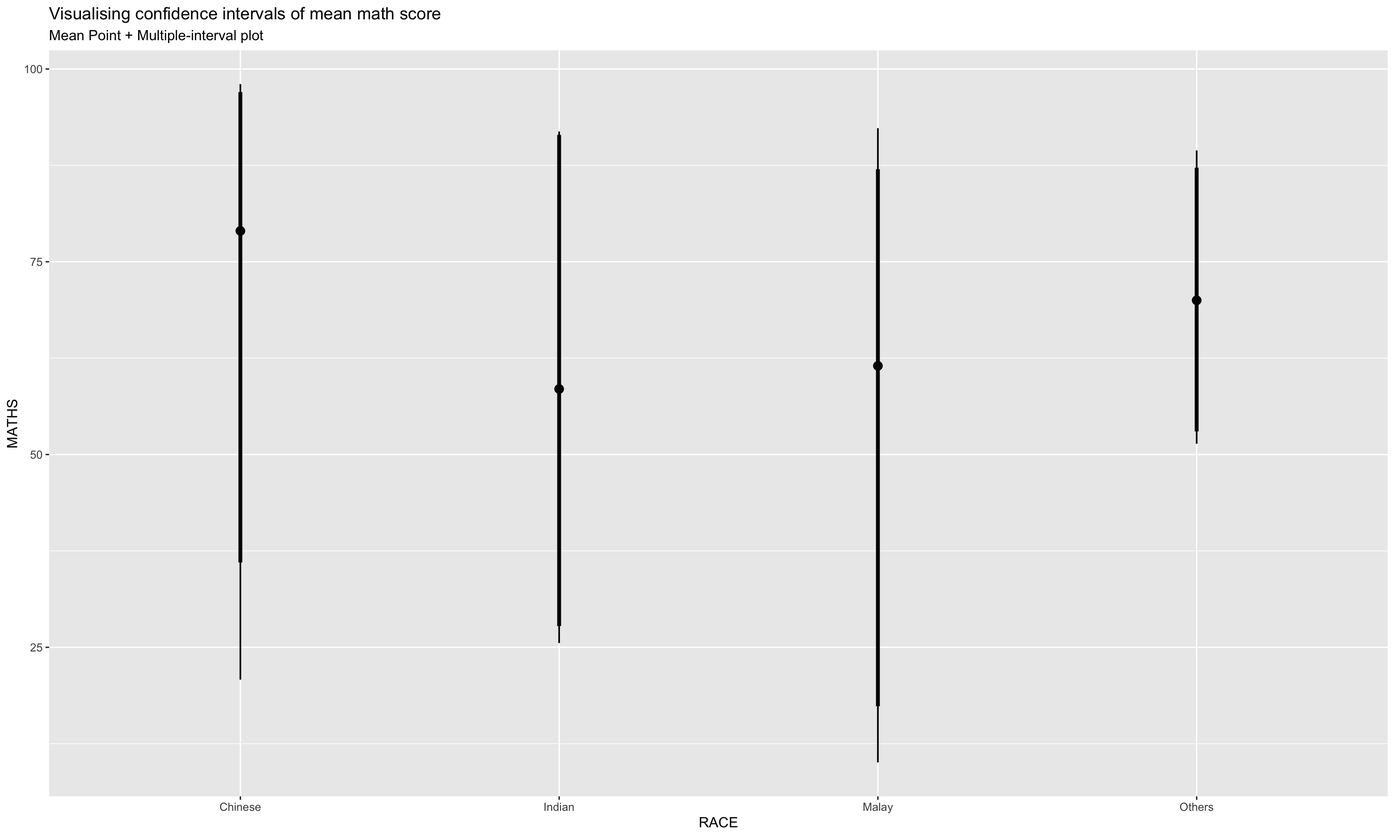
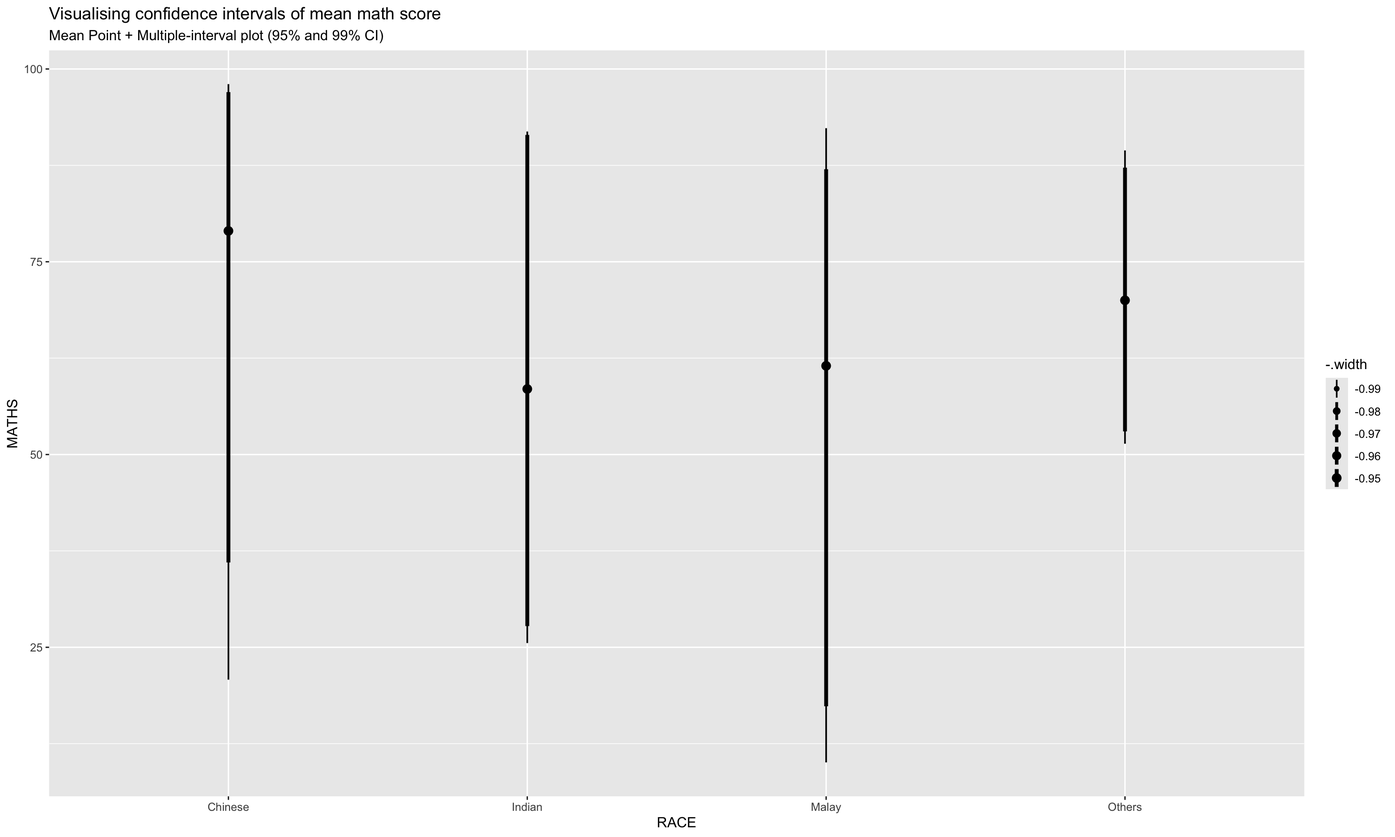
Fix Hands_on_4_3

diff --git a/_site/Hands_on_Ex04_3.html b/_site/Hands_on_Ex04_3.html
@@ -219,11 +219,11 @@ pre > code.sourceCode > span > a:first-child::before { text-decoration: underlin
   <li><a href="#plotting-confidence-interval-of-point-estimates" id="toc-plotting-confidence-interval-of-point-estimates" class="nav-link" data-scroll-target="#plotting-confidence-interval-of-point-estimates">3.2 Plotting confidence interval of point estimates</a></li>
   <li><a href="#visualizing-the-uncertainty-of-point-estimates-with-interactive-error-bars" id="toc-visualizing-the-uncertainty-of-point-estimates-with-interactive-error-bars" class="nav-link" data-scroll-target="#visualizing-the-uncertainty-of-point-estimates-with-interactive-error-bars">3.3 Visualizing the uncertainty of point estimates with interactive error bars</a></li>
   </ul></li>
-  <li><a href="#visualising-uncertainty-ggdist-package" id="toc-visualising-uncertainty-ggdist-package" class="nav-link" data-scroll-target="#visualising-uncertainty-ggdist-package"><strong>4 Visualising Uncertainty:</strong> ggdist** package**</a>
+  <li><a href="#visualising-uncertainty-ggdist-package" id="toc-visualising-uncertainty-ggdist-package" class="nav-link" data-scroll-target="#visualising-uncertainty-ggdist-package"><strong>4. Visualising Uncertainty: ggdist package </strong></a>
   <ul class="collapse">
-  <li><a href="#visualizing-the-uncertainty-of-point-estimates-ggdist-methods" id="toc-visualizing-the-uncertainty-of-point-estimates-ggdist-methods" class="nav-link" data-scroll-target="#visualizing-the-uncertainty-of-point-estimates-ggdist-methods">4.1 Visualizing the uncertainty of point estimates: <strong>ggdist</strong> methods</a></li>
+  <li><a href="#visualizing-the-uncertainty-of-point-estimates-ggdist-methods" id="toc-visualizing-the-uncertainty-of-point-estimates-ggdist-methods" class="nav-link" data-scroll-target="#visualizing-the-uncertainty-of-point-estimates-ggdist-methods">4.1 Visualizing the uncertainty of point estimates: ggdist methods</a></li>
   <li><a href="#visualizing-the-uncertainty-of-point-estimates-ggdist-methods-1" id="toc-visualizing-the-uncertainty-of-point-estimates-ggdist-methods-1" class="nav-link" data-scroll-target="#visualizing-the-uncertainty-of-point-estimates-ggdist-methods-1">4.2 Visualizing the uncertainty of point estimates: <strong>ggdist</strong> methods</a></li>
-  <li><a href="#visualizing-the-uncertainty-of-point-estimates-ggdist-methods-2" id="toc-visualizing-the-uncertainty-of-point-estimates-ggdist-methods-2" class="nav-link" data-scroll-target="#visualizing-the-uncertainty-of-point-estimates-ggdist-methods-2">4.3 Visualizing the uncertainty of point estimates: <strong>ggdist</strong> methods</a></li>
+  <li><a href="#visualizing-the-uncertainty-of-point-estimates-ggdist-methods-2" id="toc-visualizing-the-uncertainty-of-point-estimates-ggdist-methods-2" class="nav-link" data-scroll-target="#visualizing-the-uncertainty-of-point-estimates-ggdist-methods-2">4.3 Visualizing the uncertainty of point estimates: ggdist methods</a></li>
   </ul></li>
   <li><a href="#visualising-uncertainty-with-hypothetical-outcome-plots-hops" id="toc-visualising-uncertainty-with-hypothetical-outcome-plots-hops" class="nav-link" data-scroll-target="#visualising-uncertainty-with-hypothetical-outcome-plots-hops"><strong>5. Visualising Uncertainty with Hypothetical Outcome Plots (HOPs)</strong></a>
   <ul class="collapse">
@@ -294,10 +294,9 @@ pre > code.sourceCode > span > a:first-child::before { text-decoration: underlin
 <div class="cell">
 <details class="code-fold">
 <summary>Show code block</summary>
-<div class="code-copy-outer-scaffold"><div class="sourceCode cell-code" id="cb1"><pre class="sourceCode r code-with-copy"><code class="sourceCode r"><span id="cb1-1"><a href="#cb1-1" aria-hidden="true" tabindex="-1"></a>devtools<span class="sc">::</span><span class="fu">install_github</span>(<span class="st">"wilkelab/ungeviz"</span>)</span>
-<span id="cb1-2"><a href="#cb1-2" aria-hidden="true" tabindex="-1"></a>pacman<span class="sc">::</span><span class="fu">p_load</span>(plotly, crosstalk, DT,</span>
-<span id="cb1-3"><a href="#cb1-3" aria-hidden="true" tabindex="-1"></a>               ggdist, ggridges, colorspace,</span>
-<span id="cb1-4"><a href="#cb1-4" aria-hidden="true" tabindex="-1"></a>               gganimate, tidyverse)</span></code></pre></div><button title="Copy to Clipboard" class="code-copy-button"><i class="bi"></i></button></div>
+<div class="code-copy-outer-scaffold"><div class="sourceCode cell-code" id="cb1"><pre class="sourceCode r code-with-copy"><code class="sourceCode r"><span id="cb1-1"><a href="#cb1-1" aria-hidden="true" tabindex="-1"></a>pacman<span class="sc">::</span><span class="fu">p_load</span>(plotly, crosstalk, DT,</span>
+<span id="cb1-2"><a href="#cb1-2" aria-hidden="true" tabindex="-1"></a>               ggdist, ggridges, colorspace,</span>
+<span id="cb1-3"><a href="#cb1-3" aria-hidden="true" tabindex="-1"></a>               gganimate, tidyverse)</span></code></pre></div><button title="Copy to Clipboard" class="code-copy-button"><i class="bi"></i></button></div>
 </details>
 </div>
 </section>
@@ -567,12 +566,12 @@ Note
 <div class="container-fluid crosstalk-bscols">
 <div class="row">
 <div class="col-xs-4">
-<div class="plotly html-widget html-fill-item" id="htmlwidget-cda1d65f6e9fd447b52b" style="width:100%;height:400px;"></div>
-<script type="application/json" data-for="htmlwidget-cda1d65f6e9fd447b52b">{"x":{"data":[{"x":[1,3,4,2],"y":[76.507772020725383,60.666666666666671,57.444444444444429,69.666666666666671],"text":"","key":["1","2","3","4"],"type":"scatter","mode":"lines","opacity":0.90000000000000002,"line":{"color":"transparent"},"error_y":{"array":[2.9214818033281915,18.16579402963913,5.2713960499886028,9.7819093228264933],"arrayminus":[2.9214818033281915,18.16579402963913,5.2713960499886028,9.7819093228265004],"type":"data","width":17.142857142857164,"symmetric":false,"color":"rgba(0,0,0,1)"},"set":"SharedData54eef3de","showlegend":false,"xaxis":"x","yaxis":"y","hoverinfo":"text","_isNestedKey":false,"frame":null},{"x":[1,3,4,2],"y":[76.507772020725383,60.666666666666671,57.444444444444429,69.666666666666671],"text":["Race: Chinese <br>N: 193 <br>Avg. Scores: 76.51 <br>99% CI:[ 73.59 , 79.43 ]","Race: Indian <br>N: 12 <br>Avg. Scores: 60.67 <br>99% CI:[ 42.5 , 78.83 ]","Race: Malay <br>N: 108 <br>Avg. Scores: 57.44 <br>99% CI:[ 52.17 , 62.72 ]","Race: Others <br>N: 9 <br>Avg. Scores: 69.67 <br>99% CI:[ 59.88 , 79.45 ]"],"key":["1","2","3","4"],"type":"scatter","mode":"markers","marker":{"autocolorscale":false,"color":"rgba(255,0,0,1)","opacity":1,"size":5.6692913385826778,"symbol":"circle","line":{"width":1.8897637795275593,"color":"rgba(255,0,0,1)"}},"hoveron":"points","set":"SharedData54eef3de","showlegend":false,"xaxis":"x","yaxis":"y","hoverinfo":"text","_isNestedKey":false,"frame":null}],"layout":{"margin":{"t":40.840182648401829,"r":7.3059360730593621,"b":47.923444344685095,"l":37.260273972602747},"paper_bgcolor":"rgba(255,255,255,1)","font":{"color":"rgba(0,0,0,1)","family":"","size":14.611872146118724},"title":{"text":"99% Confidence interval of average <br />maths scores by race","font":{"color":"rgba(0,0,0,1)","family":"","size":17.534246575342465},"x":0,"xref":"paper"},"xaxis":{"domain":[0,1],"automargin":true,"type":"linear","autorange":false,"range":[0.40000000000000002,4.5999999999999996],"tickmode":"array","ticktext":["Chinese","Others","Indian","Malay"],"tickvals":[1,2,3,4],"categoryorder":"array","categoryarray":["Chinese","Others","Indian","Malay"],"nticks":null,"ticks":"","tickcolor":null,"ticklen":3.6529680365296811,"tickwidth":0,"showticklabels":true,"tickfont":{"color":"rgba(77,77,77,1)","family":"","size":11.68949771689498},"tickangle":-45,"showline":false,"linecolor":null,"linewidth":0,"showgrid":true,"gridcolor":"rgba(235,235,235,1)","gridwidth":0.66417600664176002,"zeroline":false,"anchor":"y","title":{"text":"Race","font":{"color":"rgba(0,0,0,1)","family":"","size":14.611872146118724}},"hoverformat":".2f"},"yaxis":{"domain":[0,1],"automargin":true,"type":"linear","autorange":false,"range":[40.653487469404261,81.295961157116452],"tickmode":"array","ticktext":["50","60","70","80"],"tickvals":[50,60,70,80],"categoryorder":"array","categoryarray":["50","60","70","80"],"nticks":null,"ticks":"","tickcolor":null,"ticklen":3.6529680365296811,"tickwidth":0,"showticklabels":true,"tickfont":{"color":"rgba(77,77,77,1)","family":"","size":11.68949771689498},"tickangle":-0,"showline":false,"linecolor":null,"linewidth":0,"showgrid":true,"gridcolor":"rgba(235,235,235,1)","gridwidth":0.66417600664176002,"zeroline":false,"anchor":"x","title":{"text":"Average Scores","font":{"color":"rgba(0,0,0,1)","family":"","size":14.611872146118724}},"hoverformat":".2f"},"shapes":[],"showlegend":false,"legend":{"bgcolor":null,"bordercolor":null,"borderwidth":0,"font":{"color":"rgba(0,0,0,1)","family":"","size":11.68949771689498}},"hovermode":"closest","barmode":"relative","dragmode":"zoom"},"config":{"doubleClick":"reset","modeBarButtonsToAdd":["hoverclosest","hovercompare"],"showSendToCloud":false},"source":"A","attrs":{"ca7d206a415a":{"x":{},"ymin":{},"ymax":{},"type":"scatter"},"ca7d1fe88c56":{"x":{},"y":{},"text":{}}},"cur_data":"ca7d206a415a","visdat":{"ca7d206a415a":["function (y) ","x"],"ca7d1fe88c56":["function (y) ","x"]},"highlight":{"on":"plotly_click","persistent":false,"dynamic":false,"selectize":false,"opacityDim":0.20000000000000001,"selected":{"opacity":1},"debounce":0,"ctGroups":["SharedData54eef3de"]},"shinyEvents":["plotly_hover","plotly_click","plotly_selected","plotly_relayout","plotly_brushed","plotly_brushing","plotly_clickannotation","plotly_doubleclick","plotly_deselect","plotly_afterplot","plotly_sunburstclick"],"base_url":"https://plot.ly"},"evals":[],"jsHooks":[]}</script>
+<div class="plotly html-widget html-fill-item" id="htmlwidget-2e1fb21eb13682430ca4" style="width:100%;height:400px;"></div>
+<script type="application/json" data-for="htmlwidget-2e1fb21eb13682430ca4">{"x":{"data":[{"x":[1,3,4,2],"y":[76.507772020725383,60.666666666666671,57.444444444444429,69.666666666666671],"text":"","key":["1","2","3","4"],"type":"scatter","mode":"lines","opacity":0.90000000000000002,"line":{"color":"transparent"},"error_y":{"array":[2.9214818033281915,18.16579402963913,5.2713960499886028,9.7819093228264933],"arrayminus":[2.9214818033281915,18.16579402963913,5.2713960499886028,9.7819093228265004],"type":"data","width":17.142857142857164,"symmetric":false,"color":"rgba(0,0,0,1)"},"set":"SharedData34c610c2","showlegend":false,"xaxis":"x","yaxis":"y","hoverinfo":"text","_isNestedKey":false,"frame":null},{"x":[1,3,4,2],"y":[76.507772020725383,60.666666666666671,57.444444444444429,69.666666666666671],"text":["Race: Chinese <br>N: 193 <br>Avg. Scores: 76.51 <br>99% CI:[ 73.59 , 79.43 ]","Race: Indian <br>N: 12 <br>Avg. Scores: 60.67 <br>99% CI:[ 42.5 , 78.83 ]","Race: Malay <br>N: 108 <br>Avg. Scores: 57.44 <br>99% CI:[ 52.17 , 62.72 ]","Race: Others <br>N: 9 <br>Avg. Scores: 69.67 <br>99% CI:[ 59.88 , 79.45 ]"],"key":["1","2","3","4"],"type":"scatter","mode":"markers","marker":{"autocolorscale":false,"color":"rgba(255,0,0,1)","opacity":1,"size":5.6692913385826778,"symbol":"circle","line":{"width":1.8897637795275593,"color":"rgba(255,0,0,1)"}},"hoveron":"points","set":"SharedData34c610c2","showlegend":false,"xaxis":"x","yaxis":"y","hoverinfo":"text","_isNestedKey":false,"frame":null}],"layout":{"margin":{"t":40.840182648401829,"r":7.3059360730593621,"b":47.923444344685095,"l":37.260273972602747},"paper_bgcolor":"rgba(255,255,255,1)","font":{"color":"rgba(0,0,0,1)","family":"","size":14.611872146118724},"title":{"text":"99% Confidence interval of average <br />maths scores by race","font":{"color":"rgba(0,0,0,1)","family":"","size":17.534246575342465},"x":0,"xref":"paper"},"xaxis":{"domain":[0,1],"automargin":true,"type":"linear","autorange":false,"range":[0.40000000000000002,4.5999999999999996],"tickmode":"array","ticktext":["Chinese","Others","Indian","Malay"],"tickvals":[1,2,3,4],"categoryorder":"array","categoryarray":["Chinese","Others","Indian","Malay"],"nticks":null,"ticks":"","tickcolor":null,"ticklen":3.6529680365296811,"tickwidth":0,"showticklabels":true,"tickfont":{"color":"rgba(77,77,77,1)","family":"","size":11.68949771689498},"tickangle":-45,"showline":false,"linecolor":null,"linewidth":0,"showgrid":true,"gridcolor":"rgba(235,235,235,1)","gridwidth":0.66417600664176002,"zeroline":false,"anchor":"y","title":{"text":"Race","font":{"color":"rgba(0,0,0,1)","family":"","size":14.611872146118724}},"hoverformat":".2f"},"yaxis":{"domain":[0,1],"automargin":true,"type":"linear","autorange":false,"range":[40.653487469404261,81.295961157116452],"tickmode":"array","ticktext":["50","60","70","80"],"tickvals":[50,60,70,80],"categoryorder":"array","categoryarray":["50","60","70","80"],"nticks":null,"ticks":"","tickcolor":null,"ticklen":3.6529680365296811,"tickwidth":0,"showticklabels":true,"tickfont":{"color":"rgba(77,77,77,1)","family":"","size":11.68949771689498},"tickangle":-0,"showline":false,"linecolor":null,"linewidth":0,"showgrid":true,"gridcolor":"rgba(235,235,235,1)","gridwidth":0.66417600664176002,"zeroline":false,"anchor":"x","title":{"text":"Average Scores","font":{"color":"rgba(0,0,0,1)","family":"","size":14.611872146118724}},"hoverformat":".2f"},"shapes":[],"showlegend":false,"legend":{"bgcolor":null,"bordercolor":null,"borderwidth":0,"font":{"color":"rgba(0,0,0,1)","family":"","size":11.68949771689498}},"hovermode":"closest","barmode":"relative","dragmode":"zoom"},"config":{"doubleClick":"reset","modeBarButtonsToAdd":["hoverclosest","hovercompare"],"showSendToCloud":false},"source":"A","attrs":{"d28a34864175":{"x":{},"ymin":{},"ymax":{},"type":"scatter"},"d28a5a338343":{"x":{},"y":{},"text":{}}},"cur_data":"d28a34864175","visdat":{"d28a34864175":["function (y) ","x"],"d28a5a338343":["function (y) ","x"]},"highlight":{"on":"plotly_click","persistent":false,"dynamic":false,"selectize":false,"opacityDim":0.20000000000000001,"selected":{"opacity":1},"debounce":0,"ctGroups":["SharedData34c610c2"]},"shinyEvents":["plotly_hover","plotly_click","plotly_selected","plotly_relayout","plotly_brushed","plotly_brushing","plotly_clickannotation","plotly_doubleclick","plotly_deselect","plotly_afterplot","plotly_sunburstclick"],"base_url":"https://plot.ly"},"evals":[],"jsHooks":[]}</script>
 </div>
 <div class="col-xs-8">
-<div id="htmlwidget-531fe50e3824e533b434" style="width:100%;height:auto;" class="datatables html-widget"></div>
-<script type="application/json" data-for="htmlwidget-531fe50e3824e533b434">{"x":{"crosstalkOptions":{"key":["1","2","3","4"],"group":"SharedData54eef3de"},"filter":"none","vertical":false,"data":[["Chinese","Indian","Malay","Others"],[193,12,108,9],[76.50777202072538,60.66666666666667,57.44444444444443,69.66666666666667],[15.69040284264305,23.35237318418266,21.13478478068459,10.72380529476361],[1.132357288111705,7.041005437844626,2.043176763561474,3.791437722025775]],"container":"<table class=\"compact\">\n  <thead>\n    <tr>\n      <th> <\/th>\n      <th>No. of pupils<\/th>\n      <th>Avg Scores<\/th>\n      <th>Std Dev<\/th>\n      <th>Std Error<\/th>\n    <\/tr>\n  <\/thead>\n<\/table>","options":{"pageLength":10,"scrollX":true,"columnDefs":[{"targets":2,"render":"function(data, type, row, meta) {\n    return type !== 'display' ? data : DTWidget.formatRound(data, 2, 3, \",\", \".\", null);\n  }"},{"targets":3,"render":"function(data, type, row, meta) {\n    return type !== 'display' ? data : DTWidget.formatRound(data, 2, 3, \",\", \".\", null);\n  }"},{"targets":4,"render":"function(data, type, row, meta) {\n    return type !== 'display' ? data : DTWidget.formatRound(data, 2, 3, \",\", \".\", null);\n  }"},{"className":"dt-right","targets":[1,2,3,4]},{"orderable":false,"targets":0},{"name":"RACE","targets":0},{"name":"n","targets":1},{"name":"mean","targets":2},{"name":"sd","targets":3},{"name":"se","targets":4}],"order":[],"autoWidth":false,"orderClasses":false},"selection":{"mode":"multiple","selected":null,"target":"row","selectable":null}},"evals":["options.columnDefs.0.render","options.columnDefs.1.render","options.columnDefs.2.render"],"jsHooks":[]}</script>
+<div id="htmlwidget-8530800acfe33ddd97fc" style="width:100%;height:auto;" class="datatables html-widget"></div>
+<script type="application/json" data-for="htmlwidget-8530800acfe33ddd97fc">{"x":{"crosstalkOptions":{"key":["1","2","3","4"],"group":"SharedData34c610c2"},"filter":"none","vertical":false,"data":[["Chinese","Indian","Malay","Others"],[193,12,108,9],[76.50777202072538,60.66666666666667,57.44444444444443,69.66666666666667],[15.69040284264305,23.35237318418266,21.13478478068459,10.72380529476361],[1.132357288111705,7.041005437844626,2.043176763561474,3.791437722025775]],"container":"<table class=\"compact\">\n  <thead>\n    <tr>\n      <th> <\/th>\n      <th>No. of pupils<\/th>\n      <th>Avg Scores<\/th>\n      <th>Std Dev<\/th>\n      <th>Std Error<\/th>\n    <\/tr>\n  <\/thead>\n<\/table>","options":{"pageLength":10,"scrollX":true,"columnDefs":[{"targets":2,"render":"function(data, type, row, meta) {\n    return type !== 'display' ? data : DTWidget.formatRound(data, 2, 3, \",\", \".\", null);\n  }"},{"targets":3,"render":"function(data, type, row, meta) {\n    return type !== 'display' ? data : DTWidget.formatRound(data, 2, 3, \",\", \".\", null);\n  }"},{"targets":4,"render":"function(data, type, row, meta) {\n    return type !== 'display' ? data : DTWidget.formatRound(data, 2, 3, \",\", \".\", null);\n  }"},{"className":"dt-right","targets":[1,2,3,4]},{"orderable":false,"targets":0},{"name":"RACE","targets":0},{"name":"n","targets":1},{"name":"mean","targets":2},{"name":"sd","targets":3},{"name":"se","targets":4}],"order":[],"autoWidth":false,"orderClasses":false},"selection":{"mode":"multiple","selected":null,"target":"row","selectable":null}},"evals":["options.columnDefs.0.render","options.columnDefs.1.render","options.columnDefs.2.render"],"jsHooks":[]}</script>
 </div>
 </div>
 </div>
@@ -581,7 +580,7 @@ Note
 </section>
 </section>
 <section id="visualising-uncertainty-ggdist-package" class="level2">
-<h2 class="anchored" data-anchor-id="visualising-uncertainty-ggdist-package"><strong>4 Visualising Uncertainty:</strong> ggdist** package**</h2>
+<h2 class="anchored" data-anchor-id="visualising-uncertainty-ggdist-package"><strong>4. Visualising Uncertainty: ggdist package </strong></h2>
 <ul>
 <li><a href="https://mjskay.github.io/ggdist/index.html"><strong>ggdist</strong></a> is an R package that provides a flexible set of ggplot2 geoms and stats designed especially for visualising distributions and uncertainty.</li>
 <li>It is designed for both frequentist and Bayesian uncertainty visualization, taking the view that uncertainty visualization can be unified through the perspective of distribution visualization:
@@ -591,7 +590,7 @@ Note
 </ul></li>
 </ul>
 <section id="visualizing-the-uncertainty-of-point-estimates-ggdist-methods" class="level3">
-<h3 class="anchored" data-anchor-id="visualizing-the-uncertainty-of-point-estimates-ggdist-methods">4.1 Visualizing the uncertainty of point estimates: <strong>ggdist</strong> methods</h3>
+<h3 class="anchored" data-anchor-id="visualizing-the-uncertainty-of-point-estimates-ggdist-methods">4.1 Visualizing the uncertainty of point estimates: ggdist methods</h3>
 <p>In the code chunk below, <a href="https://mjskay.github.io/ggdist/reference/stat_pointinterval.html"><code>stat_pointinterval()</code></a> of <strong>ggdist</strong> is used to build a visual for displaying distribution of maths scores by race.</p>
 <div class="cell">
 <details class="code-fold">
@@ -660,7 +659,7 @@ Note
 <i class="callout-icon"></i>
 </div>
 <div class="callout-title-container flex-fill">
-<span class="screen-reader-only">Tip</span>Your turn
+Tip
 </div>
 </div>
 <div class="callout-body-container callout-body">
@@ -671,19 +670,42 @@ Note
 <details class="code-fold">
 <summary>Show code block</summary>
 <div class="code-copy-outer-scaffold"><div class="sourceCode cell-code" id="cb10"><pre class="sourceCode r code-with-copy"><code class="sourceCode r"><span id="cb10-1"><a href="#cb10-1" aria-hidden="true" tabindex="-1"></a>exam <span class="sc">%&gt;%</span></span>
-<span id="cb10-2"><a href="#cb10-2" aria-hidden="true" tabindex="-1"></a>  <span class="fu">ggplot</span>(<span class="fu">aes</span>(<span class="at">x =</span> RACE,</span>
-<span id="cb10-3"><a href="#cb10-3" aria-hidden="true" tabindex="-1"></a>             <span class="at">y =</span> MATHS)) <span class="sc">+</span></span>
-<span id="cb10-4"><a href="#cb10-4" aria-hidden="true" tabindex="-1"></a>  <span class="fu">stat_pointinterval</span>(</span>
-<span id="cb10-5"><a href="#cb10-5" aria-hidden="true" tabindex="-1"></a>    <span class="at">.width =</span> <span class="fu">c</span>(<span class="fl">0.95</span>, <span class="fl">0.99</span>),</span>
-<span id="cb10-6"><a href="#cb10-6" aria-hidden="true" tabindex="-1"></a>    <span class="at">show.legend =</span> <span class="cn">FALSE</span>) <span class="sc">+</span></span>
+<span id="cb10-2"><a href="#cb10-2" aria-hidden="true" tabindex="-1"></a>  <span class="fu">ggplot</span>(<span class="fu">aes</span>(<span class="at">x =</span> RACE, <span class="at">y =</span> MATHS)) <span class="sc">+</span></span>
+<span id="cb10-3"><a href="#cb10-3" aria-hidden="true" tabindex="-1"></a>  <span class="fu">stat_pointinterval</span>(</span>
+<span id="cb10-4"><a href="#cb10-4" aria-hidden="true" tabindex="-1"></a>    <span class="at">.width =</span> <span class="fu">c</span>(<span class="fl">0.95</span>, <span class="fl">0.99</span>),</span>
+<span id="cb10-5"><a href="#cb10-5" aria-hidden="true" tabindex="-1"></a>    <span class="at">show.legend =</span> <span class="cn">TRUE</span></span>
+<span id="cb10-6"><a href="#cb10-6" aria-hidden="true" tabindex="-1"></a>  ) <span class="sc">+</span></span>
 <span id="cb10-7"><a href="#cb10-7" aria-hidden="true" tabindex="-1"></a>  <span class="fu">labs</span>(</span>
 <span id="cb10-8"><a href="#cb10-8" aria-hidden="true" tabindex="-1"></a>    <span class="at">title =</span> <span class="st">"Visualising confidence intervals of mean math score"</span>,</span>
-<span id="cb10-9"><a href="#cb10-9" aria-hidden="true" tabindex="-1"></a>    <span class="at">subtitle =</span> <span class="st">"Mean Point + Multiple-interval plot"</span>)</span></code></pre></div><button title="Copy to Clipboard" class="code-copy-button"><i class="bi"></i></button></div>
+<span id="cb10-9"><a href="#cb10-9" aria-hidden="true" tabindex="-1"></a>    <span class="at">subtitle =</span> <span class="st">"Mean Point + Multiple-interval plot (95% and 99% CI)"</span>,</span>
+<span id="cb10-10"><a href="#cb10-10" aria-hidden="true" tabindex="-1"></a>    <span class="at">color =</span> <span class="st">"Confidence Interval"</span></span>
+<span id="cb10-11"><a href="#cb10-11" aria-hidden="true" tabindex="-1"></a>  )</span></code></pre></div><button title="Copy to Clipboard" class="code-copy-button"><i class="bi"></i></button></div>
 </details>
 <div class="cell-output-display">
 <div>
 <figure class="figure">
 <p><img src="Hands_on_Ex04_3_files/figure-html/unnamed-chunk-10-1.png" class="img-fluid figure-img" width="1440"></p>
+</figure>
+</div>
+</div>
+</div>
+<div class="cell">
+<details class="code-fold">
+<summary>Show code block</summary>
+<div class="code-copy-outer-scaffold"><div class="sourceCode cell-code" id="cb11"><pre class="sourceCode r code-with-copy"><code class="sourceCode r"><span id="cb11-1"><a href="#cb11-1" aria-hidden="true" tabindex="-1"></a>exam <span class="sc">%&gt;%</span></span>
+<span id="cb11-2"><a href="#cb11-2" aria-hidden="true" tabindex="-1"></a>  <span class="fu">ggplot</span>(<span class="fu">aes</span>(<span class="at">x =</span> RACE,</span>
+<span id="cb11-3"><a href="#cb11-3" aria-hidden="true" tabindex="-1"></a>             <span class="at">y =</span> MATHS)) <span class="sc">+</span></span>
+<span id="cb11-4"><a href="#cb11-4" aria-hidden="true" tabindex="-1"></a>  <span class="fu">stat_pointinterval</span>(</span>
+<span id="cb11-5"><a href="#cb11-5" aria-hidden="true" tabindex="-1"></a>    <span class="at">.width =</span> <span class="fu">c</span>(<span class="fl">0.95</span>, <span class="fl">0.99</span>),</span>
+<span id="cb11-6"><a href="#cb11-6" aria-hidden="true" tabindex="-1"></a>    <span class="at">show.legend =</span> <span class="cn">FALSE</span>) <span class="sc">+</span></span>
+<span id="cb11-7"><a href="#cb11-7" aria-hidden="true" tabindex="-1"></a>  <span class="fu">labs</span>(</span>
+<span id="cb11-8"><a href="#cb11-8" aria-hidden="true" tabindex="-1"></a>    <span class="at">title =</span> <span class="st">"Visualising confidence intervals of mean math score"</span>,</span>
+<span id="cb11-9"><a href="#cb11-9" aria-hidden="true" tabindex="-1"></a>    <span class="at">subtitle =</span> <span class="st">"Mean Point + Multiple-interval plot"</span>)</span></code></pre></div><button title="Copy to Clipboard" class="code-copy-button"><i class="bi"></i></button></div>
+</details>
+<div class="cell-output-display">
+<div>
+<figure class="figure">
+<p><img src="Hands_on_Ex04_3_files/figure-html/unnamed-chunk-11-1.png" class="img-fluid figure-img" width="1440"></p>
 </figure>
 </div>
 </div>
@@ -698,31 +720,31 @@ Tip
 </div>
 </div>
 <div class="callout-body-container callout-body">
-<p>Gentle advice: This function comes with many arguments, students are advised to read the syntax reference for more detail.</p>
+<p>Gentle advice: This function comes with many arguments, should read the syntax reference for more detail!</p>
 </div>
 </div>
 </section>
 <section id="visualizing-the-uncertainty-of-point-estimates-ggdist-methods-2" class="level3">
-<h3 class="anchored" data-anchor-id="visualizing-the-uncertainty-of-point-estimates-ggdist-methods-2">4.3 Visualizing the uncertainty of point estimates: <strong>ggdist</strong> methods</h3>
+<h3 class="anchored" data-anchor-id="visualizing-the-uncertainty-of-point-estimates-ggdist-methods-2">4.3 Visualizing the uncertainty of point estimates: ggdist methods</h3>
 <p>In the code chunk below, <a href="https://mjskay.github.io/ggdist/reference/stat_gradientinterval.html"><code>stat_gradientinterval()</code></a> of <strong>ggdist</strong> is used to build a visual for displaying distribution of maths scores by race.</p>
 <div class="cell">
 <details class="code-fold">
 <summary>Show code block</summary>
-<div class="code-copy-outer-scaffold"><div class="sourceCode cell-code" id="cb11"><pre class="sourceCode r code-with-copy"><code class="sourceCode r"><span id="cb11-1"><a href="#cb11-1" aria-hidden="true" tabindex="-1"></a>exam <span class="sc">%&gt;%</span></span>
-<span id="cb11-2"><a href="#cb11-2" aria-hidden="true" tabindex="-1"></a>  <span class="fu">ggplot</span>(<span class="fu">aes</span>(<span class="at">x =</span> RACE,</span>
-<span id="cb11-3"><a href="#cb11-3" aria-hidden="true" tabindex="-1"></a>             <span class="at">y =</span> MATHS)) <span class="sc">+</span></span>
-<span id="cb11-4"><a href="#cb11-4" aria-hidden="true" tabindex="-1"></a>  <span class="fu">stat_gradientinterval</span>(</span>
-<span id="cb11-5"><a href="#cb11-5" aria-hidden="true" tabindex="-1"></a>    <span class="at">fill =</span> <span class="st">"skyblue"</span>,</span>
-<span id="cb11-6"><a href="#cb11-6" aria-hidden="true" tabindex="-1"></a>    <span class="at">show.legend =</span> <span class="cn">TRUE</span></span>
-<span id="cb11-7"><a href="#cb11-7" aria-hidden="true" tabindex="-1"></a>  ) <span class="sc">+</span></span>
-<span id="cb11-8"><a href="#cb11-8" aria-hidden="true" tabindex="-1"></a>  <span class="fu">labs</span>(</span>
-<span id="cb11-9"><a href="#cb11-9" aria-hidden="true" tabindex="-1"></a>    <span class="at">title =</span> <span class="st">"Visualising confidence intervals of mean math score"</span>,</span>
-<span id="cb11-10"><a href="#cb11-10" aria-hidden="true" tabindex="-1"></a>    <span class="at">subtitle =</span> <span class="st">"Gradient + interval plot"</span>)</span></code></pre></div><button title="Copy to Clipboard" class="code-copy-button"><i class="bi"></i></button></div>
+<div class="code-copy-outer-scaffold"><div class="sourceCode cell-code" id="cb12"><pre class="sourceCode r code-with-copy"><code class="sourceCode r"><span id="cb12-1"><a href="#cb12-1" aria-hidden="true" tabindex="-1"></a>exam <span class="sc">%&gt;%</span></span>
+<span id="cb12-2"><a href="#cb12-2" aria-hidden="true" tabindex="-1"></a>  <span class="fu">ggplot</span>(<span class="fu">aes</span>(<span class="at">x =</span> RACE,</span>
+<span id="cb12-3"><a href="#cb12-3" aria-hidden="true" tabindex="-1"></a>             <span class="at">y =</span> MATHS)) <span class="sc">+</span></span>
+<span id="cb12-4"><a href="#cb12-4" aria-hidden="true" tabindex="-1"></a>  <span class="fu">stat_gradientinterval</span>(</span>
+<span id="cb12-5"><a href="#cb12-5" aria-hidden="true" tabindex="-1"></a>    <span class="at">fill =</span> <span class="st">"skyblue"</span>,</span>
+<span id="cb12-6"><a href="#cb12-6" aria-hidden="true" tabindex="-1"></a>    <span class="at">show.legend =</span> <span class="cn">TRUE</span></span>
+<span id="cb12-7"><a href="#cb12-7" aria-hidden="true" tabindex="-1"></a>  ) <span class="sc">+</span></span>
+<span id="cb12-8"><a href="#cb12-8" aria-hidden="true" tabindex="-1"></a>  <span class="fu">labs</span>(</span>
+<span id="cb12-9"><a href="#cb12-9" aria-hidden="true" tabindex="-1"></a>    <span class="at">title =</span> <span class="st">"Visualising confidence intervals of mean math score"</span>,</span>
+<span id="cb12-10"><a href="#cb12-10" aria-hidden="true" tabindex="-1"></a>    <span class="at">subtitle =</span> <span class="st">"Gradient + interval plot"</span>)</span></code></pre></div><button title="Copy to Clipboard" class="code-copy-button"><i class="bi"></i></button></div>
 </details>
 <div class="cell-output-display">
 <div>
 <figure class="figure">
-<p><img src="Hands_on_Ex04_3_files/figure-html/unnamed-chunk-11-1.png" class="img-fluid figure-img" width="1440"></p>
+<p><img src="Hands_on_Ex04_3_files/figure-html/unnamed-chunk-12-1.png" class="img-fluid figure-img" width="1440"></p>
 </figure>
 </div>
 </div>
@@ -749,7 +771,7 @@ Tip
 <div class="cell">
 <details class="code-fold">
 <summary>Show code block</summary>
-<div class="code-copy-outer-scaffold"><div class="sourceCode cell-code" id="cb12"><pre class="sourceCode r code-with-copy"><code class="sourceCode r"><span id="cb12-1"><a href="#cb12-1" aria-hidden="true" tabindex="-1"></a>devtools<span class="sc">::</span><span class="fu">install_github</span>(<span class="st">"wilkelab/ungeviz"</span>)</span></code></pre></div><button title="Copy to Clipboard" class="code-copy-button"><i class="bi"></i></button></div>
+<div class="code-copy-outer-scaffold"><div class="sourceCode cell-code" id="cb13"><pre class="sourceCode r code-with-copy"><code class="sourceCode r"><span id="cb13-1"><a href="#cb13-1" aria-hidden="true" tabindex="-1"></a>devtools<span class="sc">::</span><span class="fu">install_github</span>(<span class="st">"wilkelab/ungeviz"</span>)</span></code></pre></div><button title="Copy to Clipboard" class="code-copy-button"><i class="bi"></i></button></div>
 </details>
 </div>
 <div class="callout callout-style-default callout-note callout-titled">
@@ -771,7 +793,7 @@ Note
 <div class="cell">
 <details class="code-fold">
 <summary>Show code block</summary>
-<div class="code-copy-outer-scaffold"><div class="sourceCode cell-code" id="cb13"><pre class="sourceCode r code-with-copy"><code class="sourceCode r"><span id="cb13-1"><a href="#cb13-1" aria-hidden="true" tabindex="-1"></a><span class="fu">library</span>(ungeviz)</span></code></pre></div><button title="Copy to Clipboard" class="code-copy-button"><i class="bi"></i></button></div>
+<div class="code-copy-outer-scaffold"><div class="sourceCode cell-code" id="cb14"><pre class="sourceCode r code-with-copy"><code class="sourceCode r"><span id="cb14-1"><a href="#cb14-1" aria-hidden="true" tabindex="-1"></a><span class="fu">library</span>(ungeviz)</span></code></pre></div><button title="Copy to Clipboard" class="code-copy-button"><i class="bi"></i></button></div>
 </details>
 </div>
 </section>
@@ -781,26 +803,26 @@ Note
 <div class="cell">
 <details class="code-fold">
 <summary>Show code block</summary>
-<div class="code-copy-outer-scaffold"><div class="sourceCode cell-code" id="cb14"><pre class="sourceCode r code-with-copy"><code class="sourceCode r"><span id="cb14-1"><a href="#cb14-1" aria-hidden="true" tabindex="-1"></a><span class="fu">ggplot</span>(<span class="at">data =</span> exam,</span>
-<span id="cb14-2"><a href="#cb14-2" aria-hidden="true" tabindex="-1"></a>       (<span class="fu">aes</span>(<span class="at">x =</span> <span class="fu">factor</span>(RACE),</span>
-<span id="cb14-3"><a href="#cb14-3" aria-hidden="true" tabindex="-1"></a>            <span class="at">y =</span> MATHS))) <span class="sc">+</span></span>
-<span id="cb14-4"><a href="#cb14-4" aria-hidden="true" tabindex="-1"></a>  <span class="fu">geom_point</span>(<span class="at">position =</span> <span class="fu">position_jitter</span>(</span>
-<span id="cb14-5"><a href="#cb14-5" aria-hidden="true" tabindex="-1"></a>    <span class="at">height =</span> <span class="fl">0.3</span>,</span>
-<span id="cb14-6"><a href="#cb14-6" aria-hidden="true" tabindex="-1"></a>    <span class="at">width =</span> <span class="fl">0.05</span>),</span>
-<span id="cb14-7"><a href="#cb14-7" aria-hidden="true" tabindex="-1"></a>    <span class="at">size =</span> <span class="fl">0.4</span>,</span>
-<span id="cb14-8"><a href="#cb14-8" aria-hidden="true" tabindex="-1"></a>    <span class="at">color =</span> <span class="st">"#0072B2"</span>,</span>
-<span id="cb14-9"><a href="#cb14-9" aria-hidden="true" tabindex="-1"></a>    <span class="at">alpha =</span> <span class="dv">1</span><span class="sc">/</span><span class="dv">2</span>) <span class="sc">+</span></span>
-<span id="cb14-10"><a href="#cb14-10" aria-hidden="true" tabindex="-1"></a>  <span class="fu">geom_hpline</span>(<span class="at">data =</span> <span class="fu">sampler</span>(<span class="dv">25</span>,</span>
-<span id="cb14-11"><a href="#cb14-11" aria-hidden="true" tabindex="-1"></a>                             <span class="at">group =</span> RACE),</span>
-<span id="cb14-12"><a href="#cb14-12" aria-hidden="true" tabindex="-1"></a>              <span class="at">height =</span> <span class="fl">0.6</span>,</span>
-<span id="cb14-13"><a href="#cb14-13" aria-hidden="true" tabindex="-1"></a>              <span class="at">color =</span> <span class="st">"#D55E00"</span>) <span class="sc">+</span></span>
-<span id="cb14-14"><a href="#cb14-14" aria-hidden="true" tabindex="-1"></a>  <span class="fu">theme_bw</span>() <span class="sc">+</span></span>
-<span id="cb14-15"><a href="#cb14-15" aria-hidden="true" tabindex="-1"></a>  <span class="fu">transition_states</span>(.draw, <span class="dv">1</span>, <span class="dv">3</span>)</span></code></pre></div><button title="Copy to Clipboard" class="code-copy-button"><i class="bi"></i></button></div>
+<div class="code-copy-outer-scaffold"><div class="sourceCode cell-code" id="cb15"><pre class="sourceCode r code-with-copy"><code class="sourceCode r"><span id="cb15-1"><a href="#cb15-1" aria-hidden="true" tabindex="-1"></a><span class="fu">ggplot</span>(<span class="at">data =</span> exam,</span>
+<span id="cb15-2"><a href="#cb15-2" aria-hidden="true" tabindex="-1"></a>       (<span class="fu">aes</span>(<span class="at">x =</span> <span class="fu">factor</span>(RACE),</span>
+<span id="cb15-3"><a href="#cb15-3" aria-hidden="true" tabindex="-1"></a>            <span class="at">y =</span> MATHS))) <span class="sc">+</span></span>
+<span id="cb15-4"><a href="#cb15-4" aria-hidden="true" tabindex="-1"></a>  <span class="fu">geom_point</span>(<span class="at">position =</span> <span class="fu">position_jitter</span>(</span>
+<span id="cb15-5"><a href="#cb15-5" aria-hidden="true" tabindex="-1"></a>    <span class="at">height =</span> <span class="fl">0.3</span>,</span>
+<span id="cb15-6"><a href="#cb15-6" aria-hidden="true" tabindex="-1"></a>    <span class="at">width =</span> <span class="fl">0.05</span>),</span>
+<span id="cb15-7"><a href="#cb15-7" aria-hidden="true" tabindex="-1"></a>    <span class="at">size =</span> <span class="fl">0.4</span>,</span>
+<span id="cb15-8"><a href="#cb15-8" aria-hidden="true" tabindex="-1"></a>    <span class="at">color =</span> <span class="st">"#0072B2"</span>,</span>
+<span id="cb15-9"><a href="#cb15-9" aria-hidden="true" tabindex="-1"></a>    <span class="at">alpha =</span> <span class="dv">1</span><span class="sc">/</span><span class="dv">2</span>) <span class="sc">+</span></span>
+<span id="cb15-10"><a href="#cb15-10" aria-hidden="true" tabindex="-1"></a>  <span class="fu">geom_hpline</span>(<span class="at">data =</span> <span class="fu">sampler</span>(<span class="dv">25</span>,</span>
+<span id="cb15-11"><a href="#cb15-11" aria-hidden="true" tabindex="-1"></a>                             <span class="at">group =</span> RACE),</span>
+<span id="cb15-12"><a href="#cb15-12" aria-hidden="true" tabindex="-1"></a>              <span class="at">height =</span> <span class="fl">0.6</span>,</span>
+<span id="cb15-13"><a href="#cb15-13" aria-hidden="true" tabindex="-1"></a>              <span class="at">color =</span> <span class="st">"#D55E00"</span>) <span class="sc">+</span></span>
+<span id="cb15-14"><a href="#cb15-14" aria-hidden="true" tabindex="-1"></a>  <span class="fu">theme_bw</span>() <span class="sc">+</span></span>
+<span id="cb15-15"><a href="#cb15-15" aria-hidden="true" tabindex="-1"></a>  <span class="fu">transition_states</span>(.draw, <span class="dv">1</span>, <span class="dv">3</span>)</span></code></pre></div><button title="Copy to Clipboard" class="code-copy-button"><i class="bi"></i></button></div>
 </details>
 <div class="cell-output-display">
 <div>
 <figure class="figure">
-<p><img src="Hands_on_Ex04_3_files/figure-html/unnamed-chunk-14-1.gif" class="img-fluid figure-img"></p>
+<p><img src="Hands_on_Ex04_3_files/figure-html/unnamed-chunk-15-1.gif" class="img-fluid figure-img"></p>
 </figure>
 </div>
 </div>
